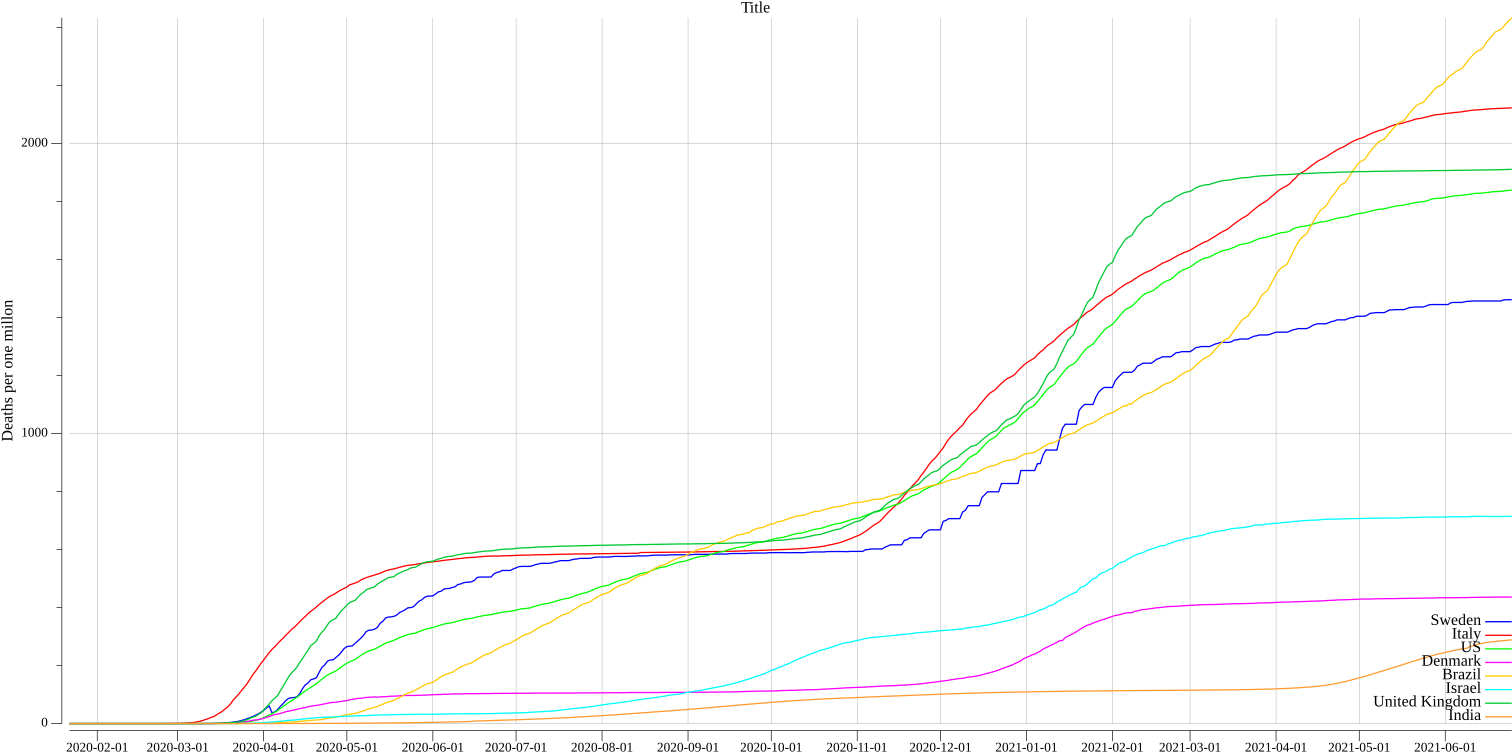
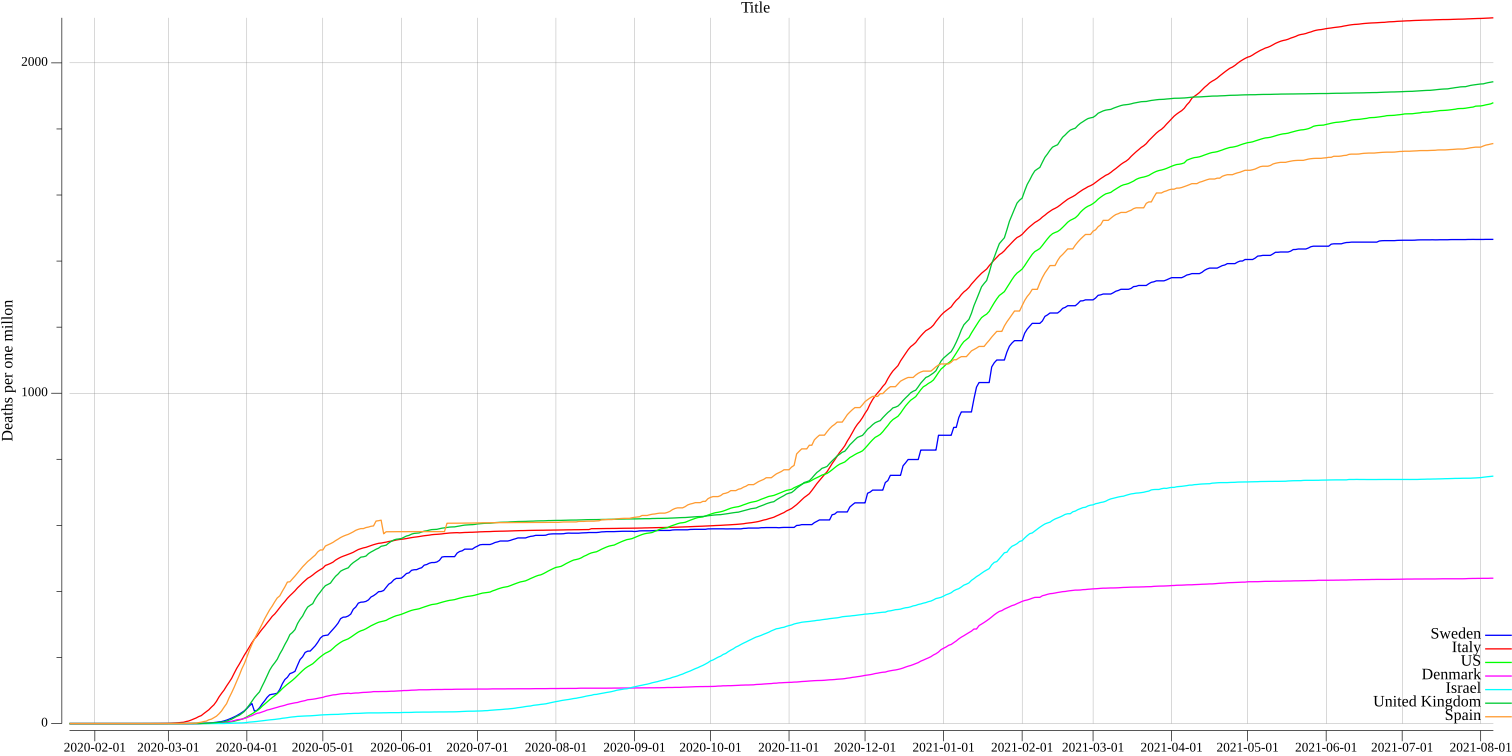
Date selection v0.1

diff --git a/plot_covid.go b/plot_covid.go
@@ -134,7 +134,10 @@ func main() {
 			for k := j - avgBoarder; k < jhData.nbrOfDates; k++ {
 				meanValue += jhProcData.country[i].newDeaths[k]
 			}
-			jhProcData.country[i].newDeathsMean[j] = meanValue / int64(jhData.nbrOfDates-(j-avgBoarder))
+			// jhProcData.country[i].newDeathsMean[j] = meanValue / int64(jhData.nbrOfDates-(j-avgBoarder))
+			dataSize := int64(jhData.nbrOfDates - (j - avgBoarder))
+			meanValue = meanValue / dataSize
+			jhProcData.country[i].newDeathsMean[j] = meanValue
 		}
 	}
 
@@ -145,13 +148,17 @@ func main() {
 	p.Y.Label.Text = "Deaths per one millon"
 	p.Add(plotter.NewGrid())
 
+	//
+	startDateIndex := 200
+	endDateIndex := jhData.nbrOfDates - 1
+	nbrOfPlotDates := endDateIndex - startDateIndex + 1
+
 	// fmt.Printf("%T\n", plotLines[0].pts)
-	pts := make(plotter.XYs, jhData.nbrOfDates)
+	pts := make(plotter.XYs, nbrOfPlotDates)
 	for i := 0; i < selCountries.nbrSelectedCountries; i++ {
 		for j := range pts {
-			pts[j].X = float64(jhData.dates[j])
-			// pts[j].Y = float64(jhProcData.country[selCountry[i].jhIndex].newDeathsMean[j]) / selCountry[i].polulation
-			pts[j].Y = float64(jhProcData.country[selCountries.country[i].jhIndex].newDeathsMean[j]) / selCountries.country[i].polulation
+			pts[j].X = float64(jhData.dates[j+startDateIndex])
+			pts[j].Y = float64(jhProcData.country[selCountries.country[i].jhIndex].newDeathsMean[j+startDateIndex]) / selCountries.country[i].polulation
 		}
 		plot_line, err := plotter.NewLine(pts)
 		if err != nil {
@@ -177,11 +184,11 @@ func main() {
 	p2.Add(plotter.NewGrid())
 
 	// fmt.Printf("%T\n", plotLines[0].pts)
-	pts2 := make(plotter.XYs, jhData.nbrOfDates)
+	pts2 := make(plotter.XYs, nbrOfPlotDates)
 	for i := 0; i < selCountries.nbrSelectedCountries; i++ {
-		for j := range pts {
-			pts2[j].X = float64(jhData.dates[j])
-			pts2[j].Y = float64(jhData.country[selCountries.country[i].jhIndex].deaths[j]) / selCountries.country[i].polulation
+		for j := range pts2 {
+			pts2[j].X = float64(jhData.dates[j+startDateIndex])
+			pts2[j].Y = float64(jhData.country[selCountries.country[i].jhIndex].deaths[j+startDateIndex]) / selCountries.country[i].polulation
 		}
 		plot_line2, err := plotter.NewLine(pts2)
 		if err != nil {
